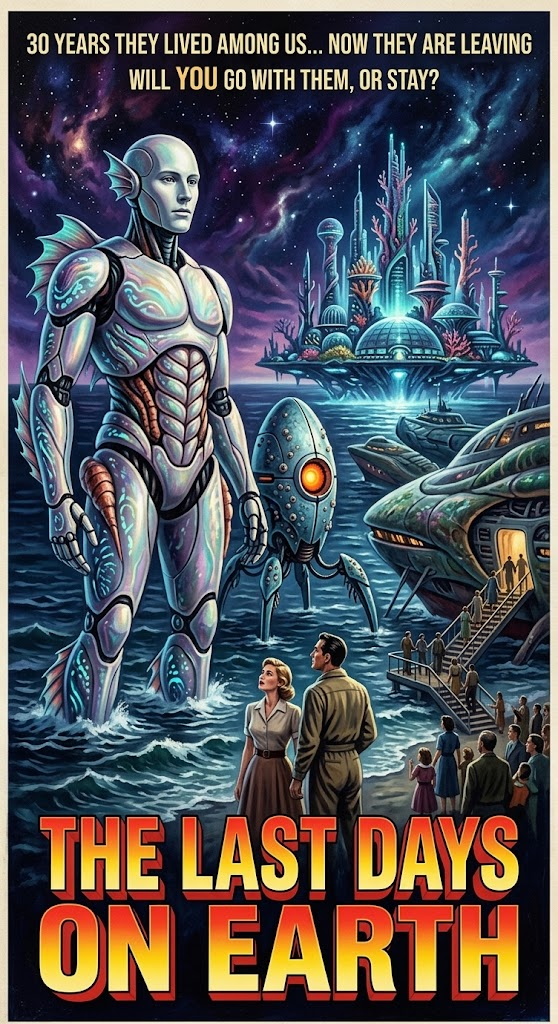
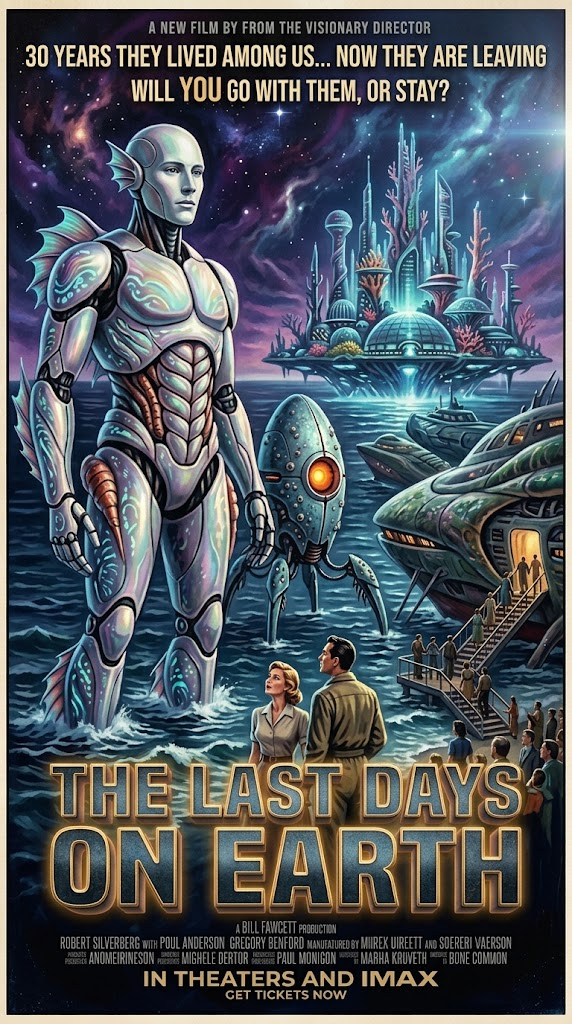
added some details

diff --git a/Academy-Cinemas/index.html b/Academy-Cinemas/index.html
@@ -5,13 +5,13 @@
     <meta charset="utf-8">
     <meta name="viewport" content="width=device-width, initial-scale=1">
 
-    <title>Academy Cinemas using Bootstrap</title>
+    <title>Europa Station Cinemas using Bootstrap</title>
     <!-- <link rel="stylesheet" href="node_modules/bootstrap-legacy/dist/css/bootstrap.min.css"> -->
     <!-- <link href="https://cdn.jsdelivr.net/npm/bootstrap@5.2.3/dist/css/bootstrap.min.css" rel="stylesheet"> -->
     <link href="https://cdn.jsdelivr.net/npm/bootstrap@5.2.3/dist/css/bootstrap.min.css" rel="stylesheet"
         integrity="sha384-rbsA2VBKQhggwzxH7pPCaAqO46MgnOM80zW1RWuH61DGLwZJEdK2Kadq2F9CUG65" crossorigin="anonymous">
-    <link href="./css/custom.css?v=20261027-jquery" rel="stylesheet">
-    <link href="./css/custom-css-media.css?v=20261027" rel="stylesheet">
+    <link href="./css/custom.css?v=20261027-paper-forms" rel="stylesheet">
+    <link href="./css/custom-css-media.css?v=20261027-poster-height" rel="stylesheet">
     <script src="/HTML-AND-CSS-PROJECTS/js1/site.js" defer></script>
 </head>
 
@@ -20,7 +20,7 @@
     <!-- nav-bar -->
     <nav class="navbar navbar-expand-lg sticky-top">
         <div class="container-fluid">
-            <a class="navbar-brand" href="#">Academy Cinemas</a>
+            <a class="navbar-brand" href="#">Europa Station Cinemas</a>
             <button class="navbar-toggler" type="button" data-bs-toggle="collapse" data-bs-target="#navbarNavDropdown"
                 aria-controls="navbarNavDropdown" aria-expanded="false" aria-label="Toggle navigation">
                 <span class="navbar-toggler-icon"></span>
@@ -82,26 +82,18 @@
                             However, humanity’s exploitation of history's most capable minds carries grave risks, 
                             as the finest intellects make formidable, dangerous captives.
 
-                            <br><br>
-                            <b>Director:</b> William Wyler
-                            <br>
-                            <b>Starring:</b> Joan of Arc | Rene Decart' | Stephen Boyd
+                            <span class="movie-credit"><b>Director:</b> William Wyler</span>
+                            <span class="movie-credit"><b>Starring:</b> Joan of Arc | Rene Decart' | Stephen Boyd</span>
                         </p>
-                        <br><br>
+                        <br>
                         <h4 class="card-title">Show Times</h4>
-                        <div class="row">
-                            <div ckass="col">
-                                <button href="#tickets" class="btn" role="button">10:00 AM</button>
-                                <button href="#tickets" class="btn" role="button">11:30 AM</button>
-                                <button href="#tickets" class="btn" role="button">1:10 PM</button>
-                            </div>
-                        </div>
-                        <div class="row">
-                            <div ckass="col">
-                                <button href="#tickets" class="btn" role="button">2:30 PM</button>
-                                <button href="#tickets" class="btn" role="button">4:50 PM</button>
-                                <button href="#tickets" class="btn" role="button">8:00 PM</button>
-                            </div>
+                        <div class="showtimes">
+                            <button href="#tickets" class="btn" role="button">10:00 AM</button>
+                            <button href="#tickets" class="btn" role="button">11:30 AM</button>
+                            <button href="#tickets" class="btn" role="button">1:10 PM</button>
+                            <button href="#tickets" class="btn" role="button">2:30 PM</button>
+                            <button href="#tickets" class="btn" role="button">4:50 PM</button>
+                            <button href="#tickets" class="btn" role="button">8:00 PM</button>
                         </div>
                     </div>
                 </div>
@@ -116,26 +108,18 @@
                         <p class="lead">
                             The intelligence has been around for 30 years and now they are leaving and won't be back for 300 hundred years. 
                             Will you take them up on their inventation to join them?
-                            <br><br>
-                            <b>Director:</b> Robert Wise
-                            <br>
-                            <b>Starring:</b> Michael Rennie | Patricia Neal | Hugh Marlowe
+                            <span class="movie-credit"><b>Director:</b> Robert Wise</span>
+                            <span class="movie-credit"><b>Starring:</b> Michael Rennie | Patricia Neal | Hugh Marlowe</span>
                         </p>
-                        <br><br>
+                        <br>
                         <h4 class="card-title">Show Times</h4>
-                        <div class="row">
-                            <div ckass="col">
-                                <button href="#tickets" class="btn" role="button">10:00 AM</button>
-                                <button href="#tickets" class="btn" role="button">11:30 AM</button>
-                                <button href="#tickets" class="btn" role="button">1:10 PM</button>
-                            </div>
-                        </div>
-                        <div class="row">
-                            <div ckass="col">
-                                <button href="#tickets" class="btn" role="button">2:30 PM</button>
-                                <button href="#tickets" class="btn" role="button">4:50 PM</button>
-                                <button href="#tickets" class="btn" role="button">8:00 PM</button>
-                            </div>
+                        <div class="showtimes">
+                            <button href="#tickets" class="btn" role="button">10:00 AM</button>
+                            <button href="#tickets" class="btn" role="button">11:30 AM</button>
+                            <button href="#tickets" class="btn" role="button">1:10 PM</button>
+                            <button href="#tickets" class="btn" role="button">2:30 PM</button>
+                            <button href="#tickets" class="btn" role="button">4:50 PM</button>
+                            <button href="#tickets" class="btn" role="button">8:00 PM</button>
                         </div>
                     </div>
                 </div>
@@ -175,29 +159,21 @@
                             
                             Every orphan was an explorer, sent to map uncharted territory.
                             And every orphan was the uncharted territory itself.
-                            <br><br>
+                            <br>
                             Based on Diaspora a Novel by Greg Egan
                             
-                            <br><br>
-                            <b>Director:</b> Alfred Hitchcock
-                            <br>
-                            <b>Starring:</b> James Stewart | Kim Novak | Barbara Bel Geddes
+                            <span class="movie-credit"><b>Director:</b> Alfred Hitchcock</span>
+                            <span class="movie-credit"><b>Starring:</b> James Stewart | Kim Novak | Barbara Bel Geddes</span>
                         </p>
-                        <br><br>
-                        <h4 class="card-title">Show Times</h4>
-                        <div class="row">
-                            <div ckass="col">
-                                <button href="#tickets" class="btn" role="button">10:00 AM</button>
-                                <button href="#tickets" class="btn" role="button">11:30 AM</button>
-                                <button href="#tickets" class="btn" role="button">1:10 PM</button>
-                            </div>
-                        </div>
-                        <div class="row">
-                            <div ckass="col">
-                                <button href="#tickets" class="btn" role="button">2:30 PM</button>
-                                <button href="#tickets" class="btn" role="button">4:50 PM</button>
-                                <button href="#tickets" class="btn" role="button">8:00 PM</button>
-                            </div>
+                        <br>
+                        <h4 class="card-title text-center">Show Times</h4>
+                        <div class="showtimes">
+                            <button href="#tickets" class="btn" role="button">10:00 AM</button>
+                            <button href="#tickets" class="btn" role="button">11:30 AM</button>
+                            <button href="#tickets" class="btn" role="button">1:10 PM</button>
+                            <button href="#tickets" class="btn" role="button">2:30 PM</button>
+                            <button href="#tickets" class="btn" role="button">4:50 PM</button>
+                            <button href="#tickets" class="btn" role="button">8:00 PM</button>
                         </div>
                     </div>
                 </div>
@@ -314,9 +290,9 @@
                 <div class="container">
                     <div class="row align-items-center">
                         <div class="col-lg-6 mb-4 mb-lg-0 pe-lg-5">
-                            <h3 class="text-uppercase mb-3">Academy Cinemas</h3>
+                            <h3 class="text-uppercase mb-3">Europa Station Cinemas</h3>
                             <p class="mb-0 text-white-50" style="line-height: 1.8;">
-                                Opening its brass-handled doors in the vibrant autumn of 1924, Academy Cinemas stood as
+                                Opening its brass-handled doors in the vibrant autumn of 1924, Europa Station stood as
                                 the crown
                                 jewel of the city's entertainment district. Originally designed as a lavish vaudeville
                                 palace,
@@ -340,7 +316,7 @@
                     <hr class="mt-5 mb-4 border-secondary">
                     <div class="row">
                         <div class="col text-center text-secondary small">
-                            &copy; 1924 - 2026 Academy Cinemas. All Rights Reserved.
+                            &copy; 1924 - 2026 Europa Station Cinemas. All Rights Reserved.
                         </div>
                     </div>
                 </div>

diff --git a/Academy-Cinemas/css/custom.css b/Academy-Cinemas/css/custom.css
@@ -3,6 +3,7 @@
 @import url('https://fonts.googleapis.com/css2?family=Caveat:wght@400..700&display=swap');
 
 :root {
+    --paper-background: #d9d8d2;
     --main-color: rgb(126, 133, 130);
     --main-color-accent: rgb(237, 192, 3);
     --main-color-transparent: rgba(126, 133, 130, 0.8);
@@ -223,6 +224,12 @@ img {
     color: var(--accent-color);
     font-family: var(--main-font-family);
     font-size: 18px;
+    
+    width: 100%;
+}
+
+.btn .col {
+    display: flexbox;
 }
 
 .btn:focus {
@@ -262,7 +269,7 @@ img {
     padding: 40px;
     height: 250px;
     margin-right: 20px;
-    background-color: white;
+    background-color: var(--paper-background);
 }
 
 .form-select {
@@ -349,4 +356,83 @@ footer{
 }
 #toastBody {
     white-space: pre-line;
+}
+/* Compact movie details while keeping the poster-controlled height. */
+#now-playing .card-body {
+    padding: 15px 16px;
+}
+
+#now-playing .card-body > br {
+    display: none;
+}
+
+#now-playing .lead {
+    line-height: 1.35;
+    margin-bottom: 8px;
+}
+
+#now-playing .card-title {
+    margin-bottom: 6px;
+}
+
+#now-playing h4.card-title {
+    margin-top: 8px;
+}
+
+#now-playing .btn {
+    height: 22px;
+    padding: 1px 10px;
+    margin-top: 2px;
+    margin-bottom: 4px;
+    font-size: 16px;
+    line-height: 18px;
+}
+/* Four showtimes per row, followed by any remaining times. */
+#now-playing .showtimes {
+    display: grid;
+    grid-template-columns: repeat(8, minmax(0, 1fr));
+    gap: 6px;
+}
+
+#now-playing .showtimes .btn {
+    width: 100%;
+    min-width: 0;
+    margin: 0;
+    padding-left: 4px;
+    padding-right: 4px;
+    white-space: nowrap;
+}
+/* Newspaper-grey movie cards with centered titles and showtimes. */
+#now-playing .card {
+    background-color: var(--paper-background);
+}
+
+#now-playing h3.card-title,
+#now-playing h4.card-title {
+    text-align: center;
+}
+
+#now-playing .movie-credit {
+    display: block;
+    margin-top: 10px;
+}
+
+#now-playing h4.card-title {
+    margin-top: 16px;
+    margin-bottom: 10px;
+}
+
+#now-playing .showtimes .btn {
+    grid-column: span 2;
+    text-align: center;
+}
+
+#now-playing .showtimes .btn:nth-child(5) {
+    grid-column: 3 / span 2;
+}
+/* Match ticket controls and contact fields to the movie info cards. */
+#tickets .form-select,
+#tickets input[type="number"],
+#contact .form-control {
+    background-color: var(--paper-background);
 }

diff --git a/Academy-Cinemas/css/custom-css-media.css b/Academy-Cinemas/css/custom-css-media.css
@@ -73,3 +73,38 @@ html {
         padding: 32px 20px;
     }
 }
+/* Let each natural poster height set its desktop row height. */
+@media screen and (min-width: 992px) {
+    #now-playing > .d-flex {
+        display: grid !important;
+        grid-template-columns: repeat(2, minmax(0, 1fr));
+        column-gap: 8.333333%;
+        padding-left: 4.166667%;
+        padding-right: 4.166667%;
+        align-items: stretch;
+    }
+
+    #now-playing > .d-flex > .col-lg-5 {
+        width: 100%;
+        min-width: 0;
+        margin: 0 !important;
+    }
+
+    #now-playing [data-bs-toggle="popover"] {
+        display: block !important;
+    }
+
+    #now-playing [data-bs-toggle="popover"] > img {
+        display: block;
+        width: 100%;
+        height: auto;
+        margin-bottom: 0;
+    }
+
+    #now-playing > .d-flex > .card {
+        /* Text cannot make the grid row taller than its poster. */
+        contain: size;
+        min-height: 0;
+        overflow-y: auto;
+    }
+}
